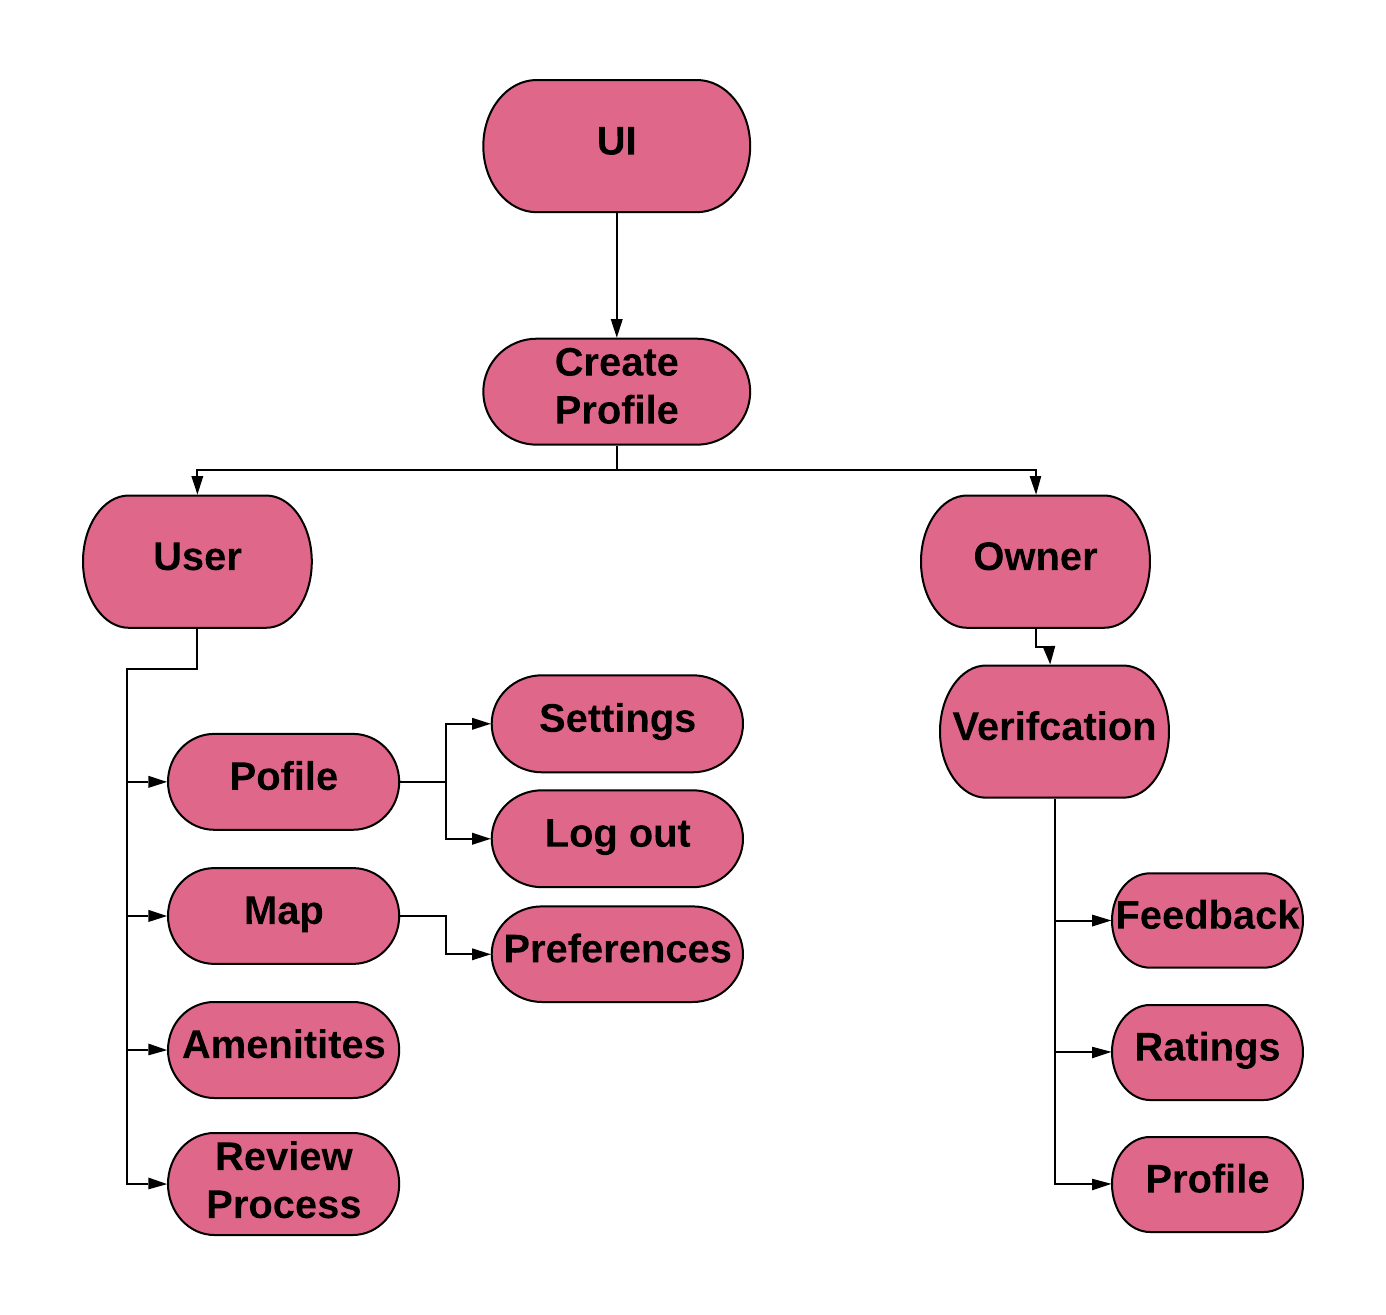
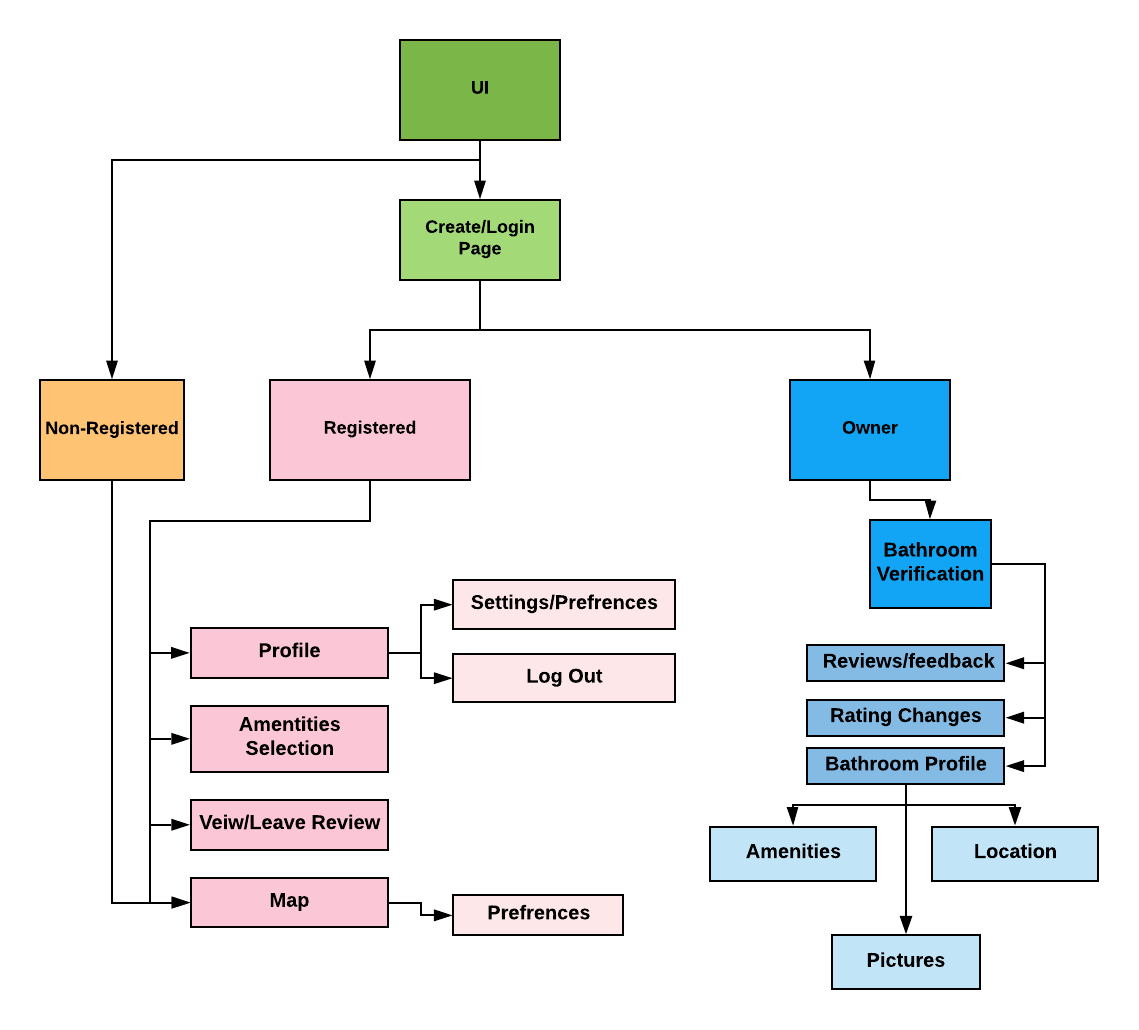
Changes (#67)
Moved
- UI (updated with newest one)
- Database
- Testing

Add
- Logic flows
- Labs

diff --git a/src/app/App.tsx b/src/app/App.tsx
@@ -14,6 +14,11 @@ import Risks from "./Pages/Risks";
 import WBS from "./Pages/WBS";
 import Algorithms from "./Pages/Algorithms";
 import UserStories from "./Pages/UserStories";
+import UI from "./Pages/UI";
+import Database from "./Pages/Database";
+import Testing from "./Pages/Testing";
+import Flows from "./Pages/Flows";
+import Labs from "./Pages/Labs";
 
 const App = ({ }) => {
     return (
@@ -29,9 +34,14 @@ const App = ({ }) => {
                     <Route path="/deliverables" component={Deliverables} />
                     <Route path="/wbs" component={WBS} />
                     <Route path="/algorithms" component={Algorithms} />
+                    <Route path="/ui" component={UI} />
+                    <Route path="/database" component={Database} />
+                    <Route path="/testing" component={Testing} />
                     <Route path="/userStories" component={UserStories} />
                     <Route path="/references" component={References} />
                     <Route path="/risks" component={Risks} />
+                    <Route path="/flows" component={Flows} />
+                    <Route path="/labs" component={Labs} />
                     <Route path="/glossary" component={Glossary} />
                 </div>
                 <Footer />

diff --git a/src/app/Components/Header.tsx b/src/app/Components/Header.tsx
@@ -50,10 +50,17 @@ export default class Header extends React.Component<any, IHeaderState> {
                 <div className="header-link-sub-container">
                     <Link to="/wbs" className="header-sub-link">WBS</Link>
                     <Link to="/algorithms" className="header-sub-link">Algorithms</Link>
+                    <Link to="/ui" className="header-sub-link">UI</Link>
+                    <Link to="/database" className="header-sub-link">Database</Link>
+                    <Link to="/testing" className="header-sub-link">Testing</Link>
                     <Link to="/userStories" className="header-sub-link">User Stories</Link>
                     <Link to="/risks" className="header-sub-link">Risks</Link>
+                    <Link to="/flows" className="header-sub-link">Flows</Link>
                 </div>
 
+            </div>
+            <div className="header-link-container">
+                <Link to="/labs" className="header-link">Labs</Link>
             </div>
             <div className="header-link-container">
                 <Link to="/references" className="header-link">References</Link>

diff --git a/src/app/Pages/Deliverables.tsx b/src/app/Pages/Deliverables.tsx
@@ -23,24 +23,6 @@ export default class Deliverables extends React.Component<{}, {}> {
                     </div>
                     <img className="problem-page-flow-image" src="images/problemReality.jpg" />
                 </div>
-                <div>
-                    <div className="wbs-main-header">
-                        UI
-                    </div>
-                    <img src="images/UIWBS.png" alt="WBS" className="mockup-image-3" />
-                </div>
-                <div>
-                    <div className="wbs-main-header">
-                        Testing
-                    </div>
-                    <img src="images/testing.png" alt="WBS" className="mockup-image-4" />
-                </div>
-                <div>
-                    <div className="wbs-main-header">
-                        Database
-                    </div>
-                    <img src="images/database.png" alt="WBS" className="mockup-image-5" />
-                </div>
             </div>
         );
     }

diff --git a/src/styles/solution.css b/src/styles/solution.css
@@ -110,11 +110,11 @@
     width: 65rem;
 }
 .mockup-image-4 {
-    height: 40rem;
+    height: 55rem;
     display: block;
     margin-left: auto;
     margin-right: auto;
-    width: 55rem;
+    width: 85rem;
 }
 .mockup-image-5 {
     height: 50rem;
@@ -122,4 +122,20 @@
     margin-left: auto;
     margin-right: auto;
     width: 75rem;
+}
+.mockup-image-6 {
+    height: 65rem;
+    display: block;
+    margin-left: auto;
+    margin-right: auto;
+    width: 45rem;
+}
+.mockup-image-7 {
+    height: 75rem;
+    display: block;
+    margin-left: auto;
+    margin-right: auto;
+    margin-top: -7rem;
+    margin-bottom: -15rem;
+    width: 125rem;
 }

diff --git a/src/app/Pages/Flows.tsx b/src/app/Pages/Flows.tsx
@@ -1,0 +1,27 @@
+import * as React from "react";
+
+const Flows = () => (
+    <div>
+        <div>
+        <div className="wbs-main-header">
+            User Logic Flow
+    </div>
+    <div>
+        <img src="images/UserLogicFlow.png" alt="flow1" className="mockup-image-7" />
+    </div>
+        </div>
+        <div>
+        <div className="wbs-main-header">
+            Owner Logic Flow
+    </div>
+    <div>
+        <img src="images/logicflowOwner.png" alt="flow2" className="mockup-image-6" />
+    </div>
+    </div>
+        
+    </div>
+    
+    
+);
+
+export default Flows;

diff --git a/src/app/Pages/Algorithms.tsx b/src/app/Pages/Algorithms.tsx
@@ -5,7 +5,7 @@ const Algorithms = () => (
         <div className="wbs-main-header">
             Algorithm
     </div>
-        <img src="images/algorithm.png" alt="WBS" className="mockup-image-5" />
+        <img src="images/algorithm.png" alt="WBS" className="mockup-image-4" />
     </div>
 );
 

diff --git a/src/app/Pages/Database.tsx b/src/app/Pages/Database.tsx
@@ -1,0 +1,12 @@
+import * as React from "react";
+
+const Database = () => (
+    <div>
+        <div className="wbs-main-header">
+            Database
+    </div>
+        <img src="images/database.png" alt="database" className="mockup-image-5" />
+    </div>
+);
+
+export default Database;

diff --git a/src/app/Pages/Testing.tsx b/src/app/Pages/Testing.tsx
@@ -1,0 +1,12 @@
+import * as React from "react";
+
+const Testing = () => (
+    <div>
+        <div className="wbs-main-header">
+            Database
+    </div>
+        <img src="images/testing.png" alt="testing" className="mockup-image-5" />
+    </div>
+);
+
+export default Testing;

diff --git a/src/app/Pages/UI.tsx b/src/app/Pages/UI.tsx
@@ -1,0 +1,12 @@
+import * as React from "react";
+
+const UI = () => (
+    <div>
+        <div className="wbs-main-header">
+            User Interface
+    </div>
+        <img src="images/UI.png" alt="UI" className="mockup-image-4" />
+    </div>
+);
+
+export default UI;

diff --git a/src/app/Pages/Labs.tsx b/src/app/Pages/Labs.tsx
@@ -1,0 +1,12 @@
+import * as React from "react";
+
+const Labs = () => (
+    <div>
+        <div className="wbs-main-header">
+            Labs
+    </div>
+        
+    </div>
+);
+
+export default Labs;
